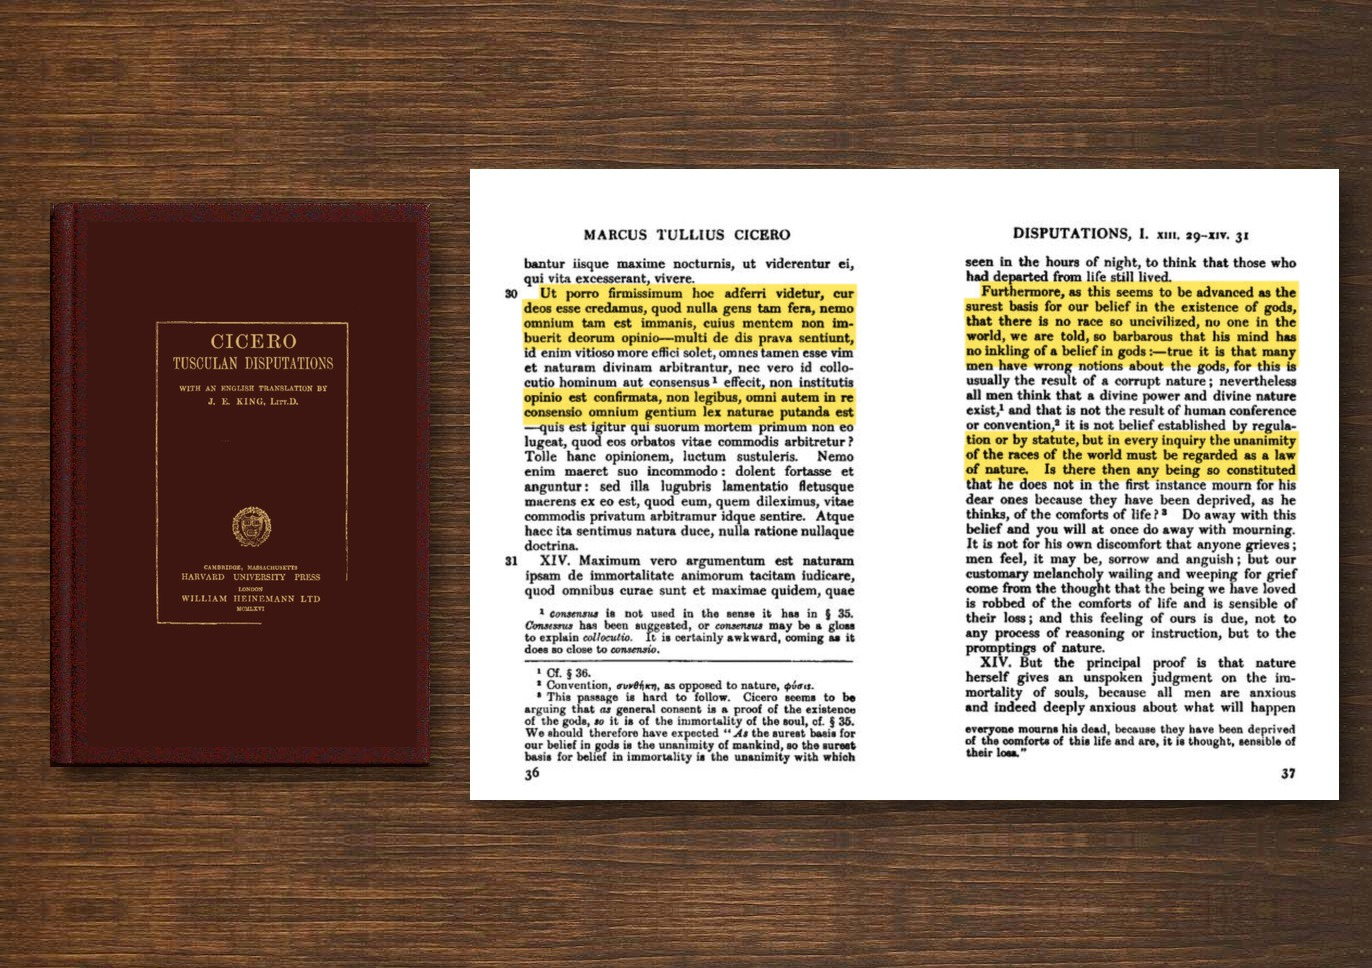
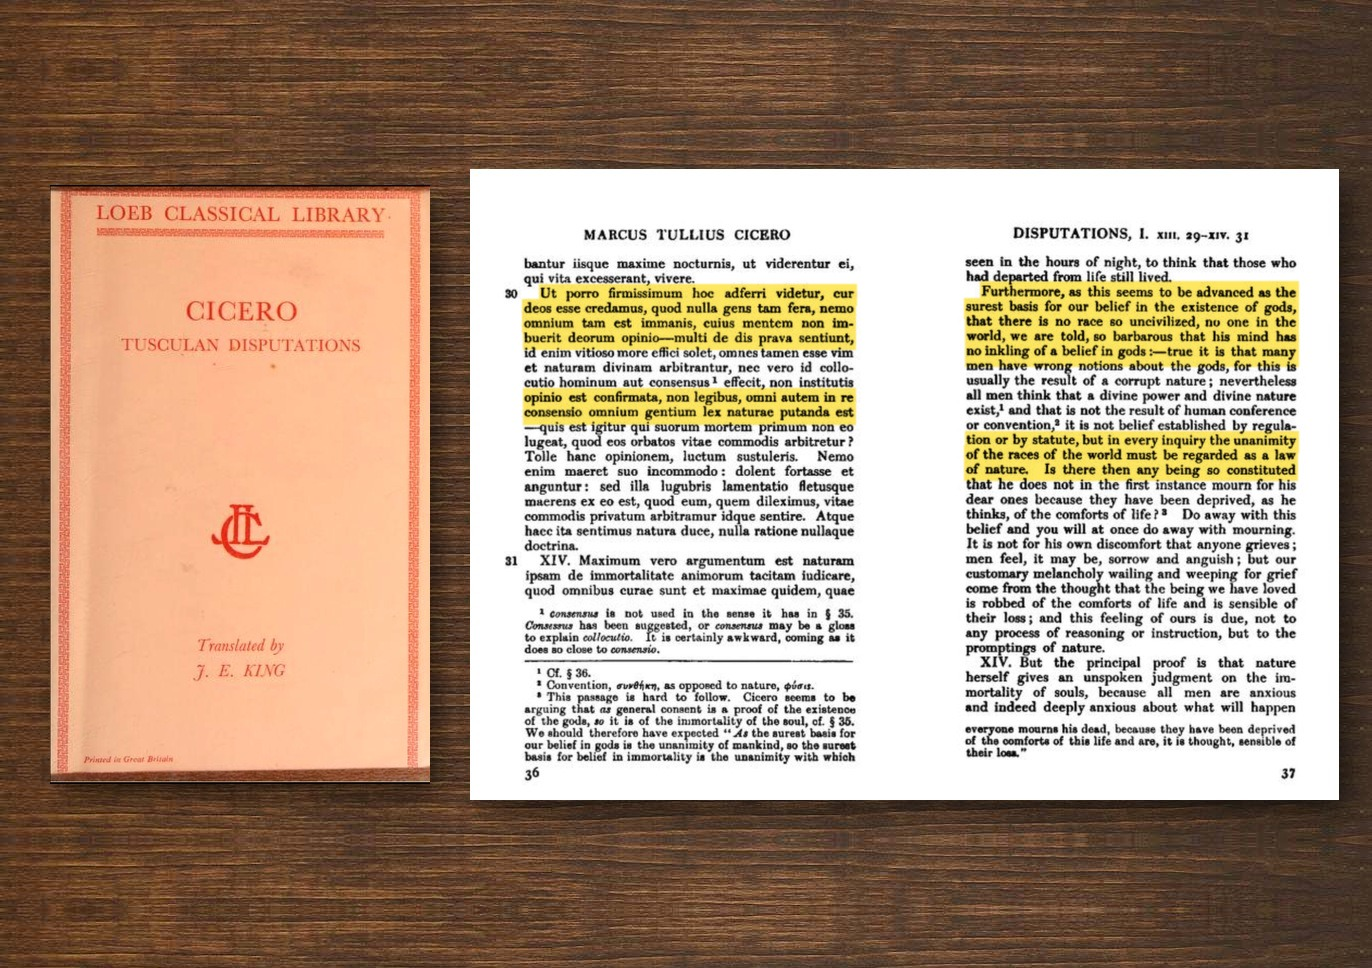
Add Gödel p.403 and Vaglieri spreads (pp.28–29, 42–43); real Tusculan cover for Cicero
Claude-Session: https://claude.ai/code/session_01CofcYSNpn6D3y3ePwzLB6G

Changed region(s): [[0.0306, 0.186, 0.3367, 0.8368]]

diff --git a/37-kurt-godel/index.html b/37-kurt-godel/index.html
@@ -56,7 +56,7 @@ footer{text-align:center;color:var(--muted);font-size:13px;padding:0 16px 40px}
   <p class="intro">النصوص التي يقتبسها الكتاب بلغتها الأصلية الإنجليزية</p>
 </header>
 <main>
-<section><h2><b>١</b>نص البرهان</h2><div class="pair one"><figure><div class="frame"><img src="img/01-x.jpg" alt="نص البرهان — " loading="eager"></div></figure></div></section>
+<section><h2><b>١</b>نص البرهان</h2><div class="pair"><figure><figcaption>النص الأصلي</figcaption><div class="frame"><img src="img/01-x.jpg" alt="نص البرهان — النص الأصلي" loading="eager"></div></figure><figure><figcaption>النص الأصلي</figcaption><div class="frame"><img src="img/01-x-2.jpg" alt="نص البرهان — النص الأصلي" loading="eager"></div></figure></div></section>
 </main>
 <footer>حجة صفوة العقول الإنسانية</footer>
 <div id="lb" role="dialog" aria-modal="true">
@@ -67,7 +67,7 @@ footer{text-align:center;color:var(--muted);font-size:13px;padding:0 16px 40px}
   <button id="nx" aria-label="التالي">‹</button>
 </div>
 <script>
-const big=[["img/01-x.jpg", "نص البرهان"]];
+const big=[["img/01-x.jpg", "نص البرهان — النص الأصلي"], ["img/01-x-2.jpg", "نص البرهان — النص الأصلي"]];
 const lb=document.getElementById('lb'),im=document.getElementById('lbi'),cap=document.getElementById('cap'),ct=document.getElementById('ct');
 let i=0;
 function show(k){i=(k+big.length)%big.length;im.src=big[i][0];cap.textContent=big[i][1];ct.textContent=(i+1)+' من '+big.length;}
